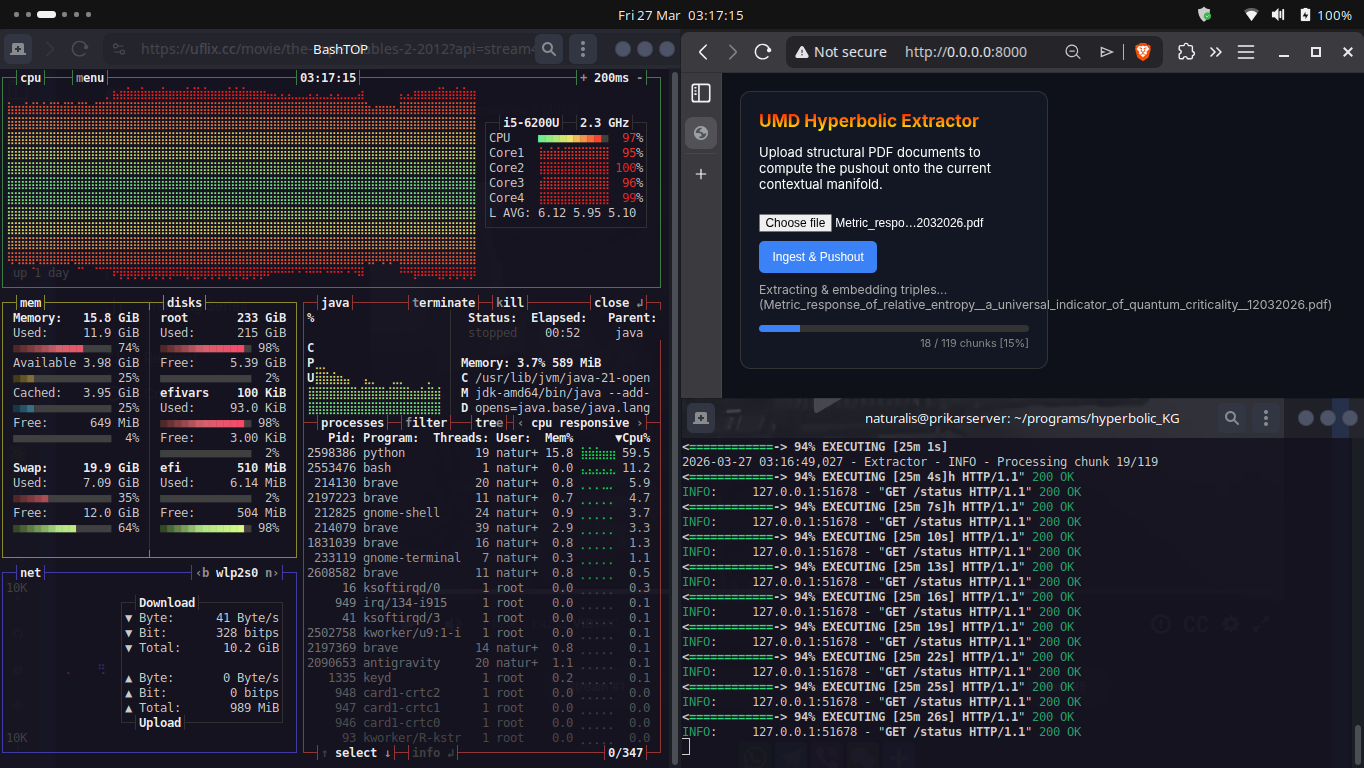
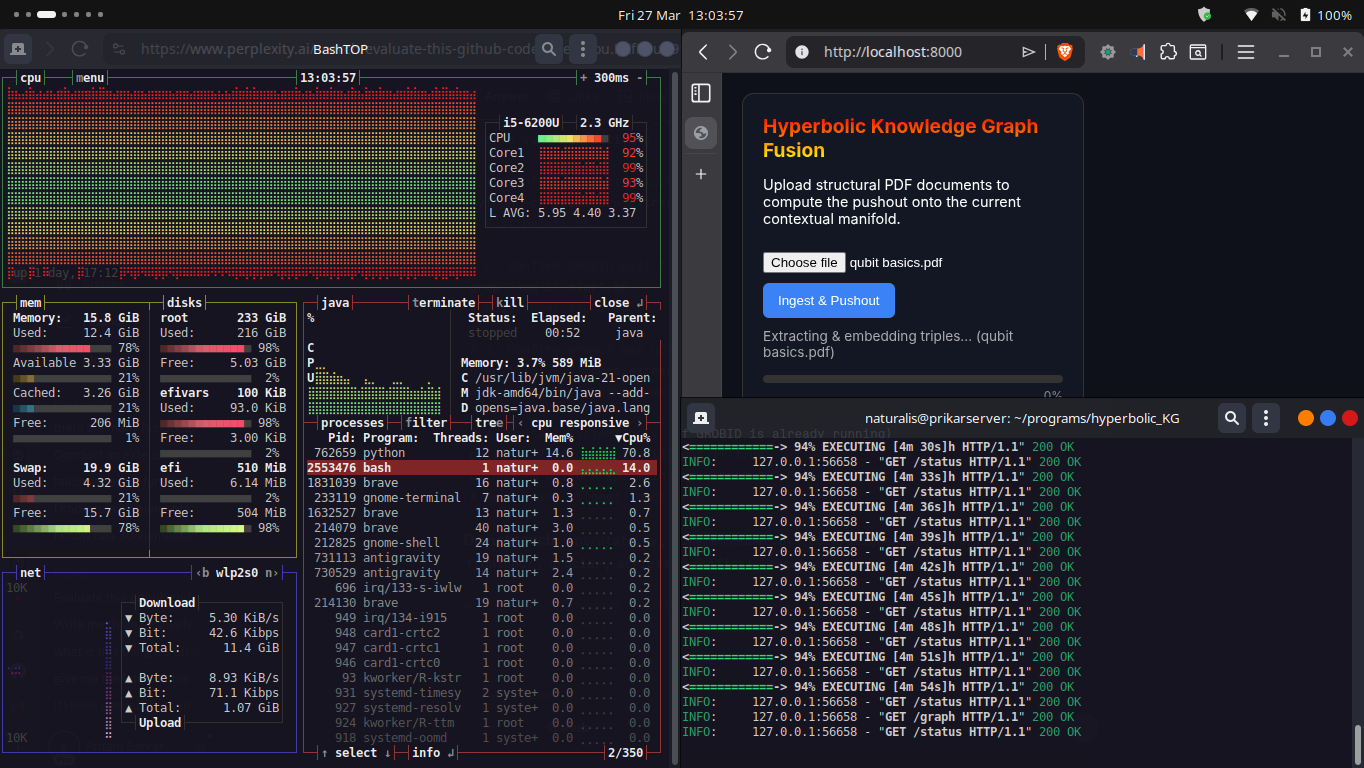
async stream

diff --git a/frontend/src/main.ts b/frontend/src/main.ts
@@ -7,6 +7,8 @@ let graph = new Graph();
 
 const pollingInterval = 3000;
 let pollingTimer: NodeJS.Timeout | null = null;
+let pipelineComplete = false;
+
 const statusEl = document.getElementById('status') as HTMLElement;
 
 // Main initializer
@@ -18,7 +20,7 @@ async function initSigma() {
         labelSize: 12,
         labelColor: { color: '#ffffff' }
     });
-    
+
     // Initial fetch
     await fetchGraph();
 }
@@ -27,9 +29,9 @@ async function fetchGraph() {
     try {
         const response = await fetch('/graph');
         const data = await response.json();
-        
+
         graph.clear();
-        
+
         if (data.nodes && data.nodes.length > 0) {
             data.nodes.forEach((n: any) => {
                 // Determine colors based on equivalence fusion
@@ -37,11 +39,14 @@ async function fetchGraph() {
                 if (n.colors && n.colors.length > 1) {
                     color = "#ec4899"; // Fused pink
                 }
-                
+
                 // Bounded Poincare mapping expands from [-1, 1] to [-100, 100] coordinates
-                const x = n.poincare_coord ? n.poincare_coord[0] * 100 : Math.random() * 100;
-                const y = n.poincare_coord ? n.poincare_coord[1] * 100 : Math.random() * 100;
-                
+                const rawX = n.poincare_coord ? n.poincare_coord[0] : 0;
+                const rawY = n.poincare_coord ? n.poincare_coord[1] : 0;
+                // If coord is near zero (untrained), spread randomly; otherwise scale normally
+                const x = (Math.abs(rawX) < 0.01) ? (Math.random() - 0.5) * 200 : rawX * 200;
+                const y = (Math.abs(rawY) < 0.01) ? (Math.random() - 0.5) * 200 : rawY * 200;
+
                 graph.addNode(n.id, {
                     x: x,
                     y: y,
@@ -50,16 +55,21 @@ async function fetchGraph() {
                     color: color
                 });
             });
-            
+
             data.links.forEach((l: any) => {
                 try {
                     graph.addEdge(l.source, l.target, { type: 'curve', label: l.label, color: '#555', size: 1.5 });
-                } catch(e) {}
+                } catch (e) { }
             });
-                        
+
             statusEl.innerText = `Graph loaded: \n${graph.order} Nodes, ${graph.size} Edges.`;
+            if (sigmaInstance) {
+                sigmaInstance.refresh();
+                sigmaInstance.getCamera().animatedReset();  // Fit all nodes into viewport
+            }
         } else {
             statusEl.innerText = "Graph is empty.";
+            if (sigmaInstance) sigmaInstance.refresh();
         }
     } catch (e) {
         console.error("Fetch graph failed:", e);
@@ -83,14 +93,14 @@ uploadBtn?.addEventListener('click', async () => {
     const file = fileInput.files[0];
     const formData = new FormData();
     formData.append('file', file);
-    
+
     statusEl.innerText = `Upload started: ${file.name}`;
     try {
         const response = await fetch('/upload', {
             method: 'POST',
             body: formData
         });
-        
+
         if (response.ok) {
             startPolling();
         } else {
@@ -103,25 +113,28 @@ uploadBtn?.addEventListener('click', async () => {
 
 function startPolling() {
     if (pollingTimer) clearInterval(pollingTimer);
-    
+    pipelineComplete = false;
+
+
     // Reset visuals
     progressContainer.style.display = 'block';
     progressText.style.display = 'block';
     progressBar.style.width = '0%';
     progressBar.style.backgroundColor = '#ec4899';
     progressText.innerText = '0%';
-    
+
     pollingTimer = setInterval(async () => {
-        await fetchGraph();
+        if (!pipelineComplete) await fetchGraph();
         await fetchStatus();
     }, pollingInterval);
+
 }
 
 async function fetchStatus() {
     try {
         const response = await fetch('/status');
         const data = await response.json();
-        
+
         if (data.is_processing) {
             statusEl.innerText = `${data.step} (${data.filename})`;
             if (data.total_chunks > 0) {
@@ -134,14 +147,19 @@ async function fetchStatus() {
             if (data.step === "Complete") {
                 statusEl.innerText = `Idle: Pushed ${data.filename}.`;
                 progressBar.style.width = '100%';
-                progressBar.style.backgroundColor = '#10b981'; // Switch to green success
+                progressBar.style.backgroundColor = '#10b981';
                 progressText.innerText = '100% (Complete)';
+                // Stop polling and do one guaranteed final render
+                pipelineComplete = true;
+                if (pollingTimer) { clearInterval(pollingTimer); pollingTimer = null; }
+                await fetchGraph();
+
             } else if (data.step && data.step.startsWith("Error")) {
                 statusEl.innerText = `System Failed: ${data.step}`;
                 progressBar.style.backgroundColor = '#ef4444'; // Red fail
             }
         }
-    } catch(e) {
+    } catch (e) {
         console.error("Fetch status failed:", e);
     }
 }
